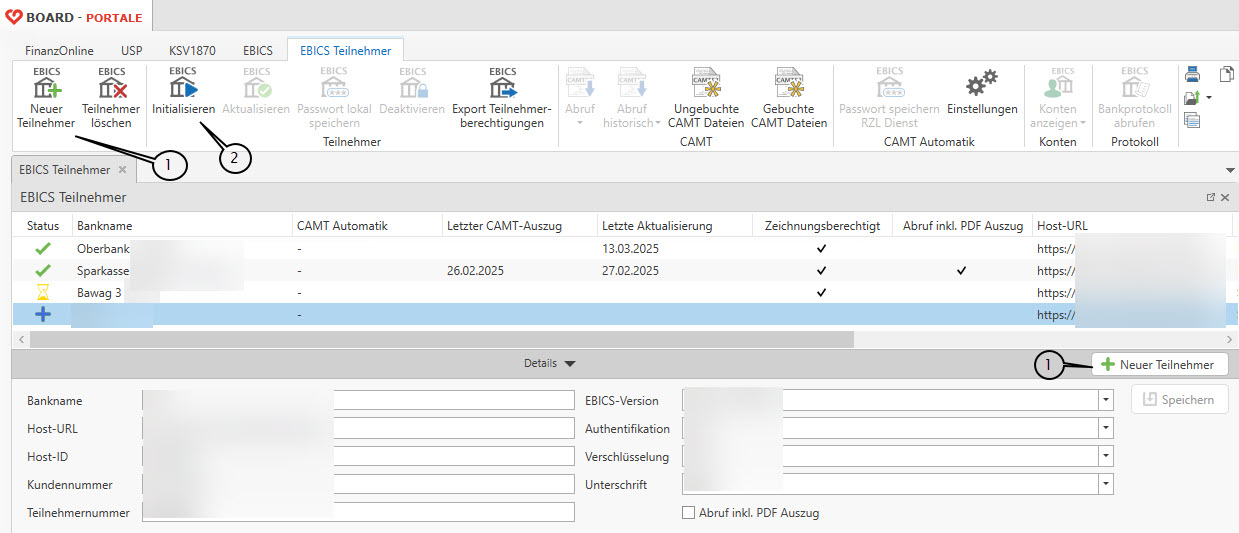
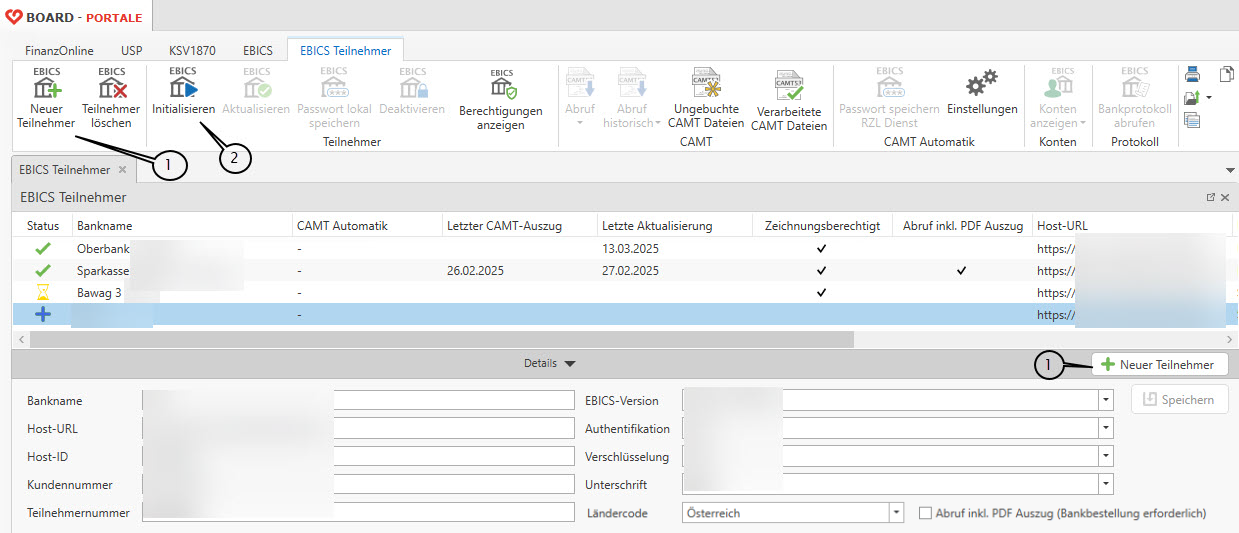
Neuerungen + FIBU integriert

diff --git a/docs/Board/Kurzanleitungen/EBICS Schnittstelle.md b/docs/Board/Kurzanleitungen/EBICS Schnittstelle.md
@@ -45,10 +45,9 @@ Wurde der EBICS Teilnehmer seitens der Bank bestätigt, wird dieser mithilfe von
 
 ![Warndreieck](<img/Bild38.png>)        Teilnehmer wurde deaktiviert
 
+Das *Deaktivieren* von EBICS Teilnehmern führt zu einer sofortigen Sperre bei der Bank. Der Teilnehmer kann also **nicht** mehr verwendet werden. Wird der Teilnehmer deaktiviert, ist die betroffene Bank zu kontaktieren.
 
-Das Deaktivieren (4) von EBICS Teilnehmern führt zu einer sofortigen Sperre bei der Bank. Der Teilnehmer kann also **nicht** mehr verwendet werden. Wird der Teilnehmer deaktiviert, ist die betroffene Bank zu kontaktieren.
-
-![Teilnehmer deaktivieren](<img/Bild17.png>)
+![Teilnehmer deaktivieren](<img/Teilnehmer deaktivieren.png>)
 
 **EBICS-Teilnehmer deaktivieren vs. löschen**
 
@@ -64,17 +63,17 @@ Mit dieser Berechtigung können CAMT-Auszüge über die EBICS Schnittstelle abge
 
 **Zeichnungsberechtigung**
 
-Mit dieser Berechtigung kann zusätzlich über die EBICS Schnittstelle die Freigabe der in der Zah-lungsverkehrsdatei enthaltenen Überweisungen vorgenommen werden. Dafür ist grundsätzlich aus Sicherheitsgründen die Eingabe des Passwortes für den jeweiligen Teilnehmer erforderlich. In der EBICS Schnittstelle besteht die Möglichkeit dieses Passwort lokal zu speichern, was aber aus den oben genannten Sicherheitsgründen nicht empfohlen wird.
+Mit dieser Berechtigung kann zusätzlich über die EBICS Schnittstelle die Freigabe der in der Zah-lungsverkehrsdatei enthaltenen Überweisungen vorgenommen werden. Dafür ist grundsätzlich aus Sicherheitsgründen die Eingabe des Passwortes für den jeweiligen Teilnehmer erforderlich. In der EBICS Schnittstelle besteht die Möglichkeit dieses Passwort lokal zu speichern, was aber aus den oben genannten Sicherheitsgründen nicht empfohlen wird.<>
 
 !!! info "Tipp"
-    Mithilfe Export Teilnehmerberechtigungen können Sie sich ein TXT File exportieren, welches Informationen über Berechtigungen je ausgewähltem EBICS Teilnehmer beinhaltet.
-    ![Export Teilnehmerberechtigungen](<img/Export Teilnehmerberechtigungen.png>)
+    Über *Berechtigungen anzeigen* erhalten Sie eine Liste, die die Berechtigungen je Bankverbindung des ausgewählten EBICS Teilnehmer anzeigt. Mithilfe von vordefinierten Filtern können Sie nach konkreten Berechtigungen suchen.
+    ![Export Teilnehmerberechtigungen](<img/Berechtigungen anzeigen.png>)
 
 ## Passwort Speicherung
 
-Für den *automatischen* CAMT Abruf kann das Passwort über den RZL Dienst gespeichert werden (5). Dies ist jedoch nur bei Teilnehmern möglich, welche eine Transport- oder Leseberechtigung haben und somit keine Zeichnungsberechtigung.
+Für den *automatischen* CAMT Abruf kann das Passwort über den RZL Dienst gespeichert werden. Dies ist jedoch nur bei Teilnehmern möglich, welche eine Transport- oder Leseberechtigung haben und somit keine Zeichnungsberechtigung.
 
-![PW speichern RZL Dienst](<img/Bild18.png>)
+![PW speichern RZL Dienst](<img/Passwort speichern Dienst.png>)
 
 ![Hinweis Speicherung](<img/Bild19.png>)
 
@@ -86,7 +85,6 @@ Zusätzlich zum Speichern des Passwortes für den automatischen CAMT Abruf, kön
 
 !!! warning "Hinweis"
     Wird das Passwort lokal gespeichert und liegt für den Teilnehmer eine *Zeichnungsberechtigung* vor, werden *Zahlungen in der Zahlungsverkehrsdatei automatisch elektronisch unterschrieben* und durchgeführt! Ob eine Zeichnungsberechtigung vorliegt sehen Sie in der Teilnehmerverwaltung in der Spalte *Zeichnungsberechtigt*.
-
 
 ## CAMT-Abruf
 
@@ -100,19 +98,19 @@ Wurde die Bankverbindung in den Stammdaten (Personen- oder Firmendaten) eingetra
 
 Den automatische CAMT Abruf können Sie aktivieren bzw. falls dieser nicht erwünscht ist deaktivieren. Außerdem sehen Sie hier, für wie viele Teilnehmer der automatische Abruf aktiviert wurde, für wie viele die Aktivierung möglich wäre und für wie viele die Aktivierung nicht möglich ist.
 
-![EBICS Einstellungen](<img/Bild21.png>)
+![EBICS Einstellungen](<img/Einstellungen autom camt.png>)
 
 Sie können den Abruf für alle freigeschaltenen Teilnehmer oder nur für einen (dieser muss markiert werden) durchführen. 
 
 Als freigeschaltete Teilnehmer gelten jene mit dem Status ![Hakerl](<img/Bild13.png>)
 
-![Abschnitt CAMT](<img/CAMT Buttons.png>)
+![Abschnitt CAMT](<img/Bereich CAMT.png>)
 
 Bei einem erfolgreichen Abruf erscheint folgendes Fenster zum Bestätigen:
 
 ![CAMT Abruf Status](<img/Bild23.png>)
 
-Beim CAMT Abruf (1) werden immer die aktuellsten bzw. die noch nicht abgerufenen CAMT abgerufen. Damit dies funktioniert, wird ein Flag gesetzt, welcher definiert, welche CAMT noch nicht abgerufen wurden.
+Beim CAMT **Abruf** (1) werden immer die aktuellsten bzw. die noch nicht abgerufenen CAMT abgerufen. Damit dies funktioniert, wird ein Flag gesetzt, welcher definiert, welche CAMT noch nicht abgerufen wurden.
 
 Treten Fehler beim manuellen Abruf auf, können Sie im Protokoll Kommunikation die Details zum fehlerhaften Abruf einsehen.
 
@@ -120,23 +118,24 @@ Bei einem fehlerhaften automatischen Abruf können Sie dies über das Benachrich
 
 ![Kommunikationsprotokoll](<img/Bild25.png>)
 
-Beim CAMT Abruf historisch (2) können Sie ein Von – Bis Datum eintragen und jene CAMT zwischen diesem Zeitraum abrufen. Grundsätzlich benötigen Sie den historischen Abruf nicht, da wie erwähnt ein Flag gesetzt wird und die benötigten CAMT Dateien nach Reihenfolge abgerufen werden.
+Beim CAMT **Abruf historisch** (2) können Sie ein Von – Bis Datum eintragen und jene CAMT zwischen diesem Zeitraum abrufen. Grundsätzlich benötigen Sie den historischen Abruf nicht, da wie erwähnt ein Flag gesetzt wird und die benötigten CAMT Dateien nach Reihenfolge abgerufen werden.
 
 !!! info "Hinweis"
     Bei einem historischen Abruf wird außerdem ein Abgleich von bereits gebuchten und ungebuchten CAMT-Dateien durchgeführt. Wenn mit einem historischen Abruf bereits gebuchte CAMT Dateien abgerufen werden, werden diese nicht wieder als ungebuchte CAMT eingespielt. Es kann somit also nicht zu einer doppelten Verbuchung kommen.
 
 ![CAMT Abruf historisch](<img/Bild26.png>)
 
-Unter Ungebuchte CAMT Dateien (3) finden Sie eine Übersicht, welche CAMT Dateien je Bankverbindung und zugeordneten Klienten *noch nicht* gebucht wurden.
+Unter **Ungebuchte CAMT Dateien** (3) finden Sie eine Übersicht, welche CAMT Dateien je Bankverbindung und zugeordneten Klienten *noch nicht* gebucht wurden.
 
 ![Ungebuchte CAMT Dateien](<img/ungebuchte CAMT.png>)
 
-Unter Gebuchte CAMT Dateien (4) finden Sie eine Übersicht, welche CAMT Dateien je Bankverbindung und zugeordneten Klienten bereits gebucht wurden. 
+Unter **Verarbeitete CAMT Dateien** (4) finden Sie eine Übersicht, welche CAMT Dateien je Bankverbindung und zugeordneten Klienten bereits gebucht wurden. 
 
-!!! info "Hinweis"
-    Der Aufbau der Ansichten **ungebuchte CAMT Dateien** und **gebuchte CAMT Dateien** ist ident. In beiden Listen finden Sie dieselben Informationen.
+!!! warning "Hinweis"
+    Die unter *verarbeitete CAMT Dateien* befindlichen CAMT Dateien sind jene, welche bereits in die FIBU/FIBU Next hereingespielt wurden. Ob diese tatsächlich gebucht wurden, kann nicht geprüft werden.
+    Falls sich CAMT Daten in den verarbeiteten CAMT Dateien befinden, diese allerdings noch nicht gebucht wurden, können Sie diese aus dieser Ansicht löschen und einen CAMT Abruf (historisch) durchführen. Die abgerufenen CAMT landen somit in die ungebuchten CAMT Dateien und können in die FIBU/FIBU Next hereingespielt werden.
 
-In diesen beiden Listen können Sie außerdem die CAMT Dateien exportieren oder löschen.
+In diesen beiden Listen können Sie außerdem die CAMT Dateien exportieren oder löschen, sowie die PDF-Auszüge einzeln oder gesammelt exportieren.
 
 ### PDF-Auszug
 Wurde bei der Bank die Zustellung von PDF-Auszügen bestellt und auch im EBICS Teilnehmer die Option *Abruf inkl. PDF-Auszug* aktiviert, sind in beiden Listen ebenso die PDF Auszüge abrufbar. Sie haben im RZL die Möglichkeit diese zu exportieren, um diese ggf. in die Belegverarbeitung zu importieren.
@@ -150,7 +149,6 @@ Außerdem gibt es auch hier wieder die Möglichkeit die PDF und CAMT Dateien zu 
 !!! warning "Hinweis"
     Die Verarbeitung von CAMT-Retourdaten in der RZL FIBU/EA Klassik bzw. der RZL FIBU Next bleibt mit Einführung der EBICS Schnittstelle ident. Die Schnittstelle dient lediglich zum Abruf bzw. zum Transport von Bankdaten.
     Die bisherige Kommunikation über Online-Services der Bank (manueller Abruf CAMT53 oder .csv-Dateien ohne bisherige MBS-Software) ist weiterhin möglich. Detailinformationen erhalten Sie bei den jeweiligen Bankinstituten.
-
 
 ## Zahlungsverkehr
 
@@ -214,11 +212,90 @@ Am *Status* können Sie erkennen, ob die Zahlungsdatei übermittelt wurde. Am **
 !!! info "Hinweis"
     Wenn Sie den Mauszeiger auf das jeweilige Icon positionieren, wird ein Tooltip angezeigt, welche die Informationen laut obiger Tabelle anführen.
 
-## EBICS in der RZL FIBU/FIBU Next/EA und im RZL Lohn
+## EBICS in der RZL FIBU/EA und FIBU Next
 
-Die nötigen Einstellungen und die Bedienung von CAMT Retourdaten und des Zahlungsverkehrs mit EBICS in der RZL FIBU/FIBU Next/EA entnehmen Sie bitte der Kurzanleitung [*EBICS Schnittstelle RZL Finanzbuchhaltung*](https://rzlsoftware.at/fileadmin/user_upload/PDF_Kurzanleitungen/BOARD/BOARD_EBICS_Schnittstelle.pdf).
+Die abgerufenen CAMT53-Dateien werden durch den Abruf in der RZL Datenbank gespeichert und können automatisch in der RZL FIBU bzw. der RZL FIBU Next eingespielt werden. Somit fällt der manuelle Abruf, die Speicherung der Dateien bzw. das händische Einspielen der Retourdaten weg.
 
-Die nötigen Einstellungen und die Bedienung des Zahlungsverkehres mit EBICS im RZL Lohn entnehmen Sie bitte der Kurzanleitung *EBICS Schnittstelle im RZL Lohnverrechnungsprogramm*.
+### Verarbeitung CAMT FIBU/EA Klassik
+Bei den jeweiligen Klienten wird die Schnittstelle aktiviert. Unter *Stamm → Weitere Stammdaten → Bankkonten* ist in den Stammdaten des jeweiligen Bankkontos die Option **EBICS-Portal für CAMT** zu setzen.
+
+!!! info "Hinweis"
+    Die Verarbeitung von CAMT-Retourdaten in der RZL FIBU/EA Klassik bzw. der RZL FIBU Next bleibt mit Einführung der EBICS Schnittstelle ident. Die Schnittstelle dient lediglich zum Abruf bzw. zum Transport von Bankdaten.
+    Die bisherige Kommunikation über Online-Services der Bank (manueller Abruf CAMT53 oder .csv-Dateien ohne bisherige MBS-Software) ist weiterhin möglich. Detailinformationen erhalten Sie bei den jeweiligen Bankinstituten.
+
+![Bankverbindung FIBU/EA](<img/Bankverbindung FIBU.png>)
+
+Die weiteren Schritte sind ident mit der bisherigen Vorgangsweise bei der Verarbeitung von Retourdaten. Über *Bearbeiten → Zahlungsverkehr SEPA bzw. EBICS → Verarbeitung CAMT Retourdaten* werden die CAMT-Daten abgeholt und in einen Zwischenordner (bisher bereits hinterlegter Datenordner) zwischengesichert.
+
+![Import Ordner festlegen](<img/Ordner Import CAMT.png>)
+
+### Verarbeitung CAMT FIBU Next
+
+Unter *Stammdaten → Zahlungsverkehr → FIBU Bankverbindungen* ist in den Stammdaten des jeweiligen Bankkontos beim Klienten die Quelle EBICS zu setzen.
+
+![FIBU Next Bankverbindung Quelle](<img/Next Bankverbindung.png>)
+
+Die weiteren Schritte in der FIBU Next sind ident mit der bisherigen Vorgangsweise bei der Verarbeitung von Retourdaten.
+
+![Kontoauszüge hereinspielen Next](<img/Next EBICS Camt einspielen.png>)
+
+Sobald ein Stapel im FIBU Next geöffnet wird, werden die Auszüge in den ungebuchten CAMT Dateien ausgeblendet (noch nicht gelöscht). Beim Verwerfen oder Löschen eines Stapels werden die Auszüge wieder zurück in die ungebuchten CAMT Dateien gestellt. Erst wenn der Stapel finalisiert wird, werden die Daten aus den ungebuchten CAMT Dateien gelöscht.
+
+### Überweisungen und Bankeinzüge mit EBICS
+
+Verwenden Sie das EBICS Modul und hat Ihr Kunde ein EBICS fähiges Kundenportal, können Sie direkt aus der FIBU/EA Rechnung Klassik die Überweisungs- und Bankeinzugsdateien erstellen und aus dem EBICS Modul im RZL Board überweisen bzw. die Überweisung Ihrem Kunden zum Freigeben in sein Bankprogramm stellen.
+
+!!! warning "Hinweis"
+    Bevor Sie innerhalb unseres EBICS Moduls mit der Verwendung des Zahlungsverkehrs beginnen, stellen Sie bitte sicher, dass die Klienten – für welche Sie eine Zahlungsdatei erzeugen und versenden – über ein **EBICS-fähiges Kundenportal** verfügen. Sollte dies nicht vorhanden sein, können Zahlungsdateien, welche mit einem transportberechtigten Teilnehmer versendet werden, **nicht** von Ihrem Klienten freigegeben werden.
+
+!!! info "Hinweis"
+    Die Erstellung der Überweisungen/Bankeinzüge in RZL FIBU/EA Klassik bleibt mit Einführung der EBICS Schnittstelle ident. Die Schnittstelle dient lediglich zum Transport von Bankdaten.
+
+Zuerst müssen Sie über *Stamm → Weitere Stammdaten → Bankkonten* bei dem jeweiligen Bankkonto definieren, dass die Überweisungen/Bankeinzüge über das EBICS-Portal durchgeführt werden können.
+
+![Bankverbindung FIBU Klassik](<img/Bankverbindung ÜW Klassik.png>)
+
+#### Überweisungen
+
+Steigen Sie über *Bearbeiten → Zahlungsverkehr EBICS → Überweisungen → SEPA Raum* ein.
+Im Reiter Grundeinstellungen können Sie definieren, ob das Protokoll sofort nach der Erstellung gedruckt wird.
+
+![Protokoll drucken ÜW](<img/Protokoll ÜW.png>)
+
+Im Reiter **Daten erstellen** definieren Sie die Einstellungen für die Überweisungen.
+
+![Daten übergeben](<img/Daten übergeben EBICS.png>)
+
+Mit Klick auf die Schaltfläche Daten Übergeben öffnen sich nach der Reihe die Kreditoren, wo offene Posten vorhanden sind.
+
+![OP Fenster nach Übergeben](<img/OP nach ÜW.png>)
+
+Nachdem alle Kreditoren zum Überweisen gewählt wurden, erhalten Sie folgende Meldung:
+
+![erfolgreich Meldung](<img/ÜW erfolgreich übergeben.png>)
+
+#### Bankeinzüge
+
+Steigen Sie über *Bearbeiten → Zahlungsverkehr EBICS → Bankeinzüge → SEPA Raum* ein.
+Im Reiter Grundeinstellungen können Sie definieren, ob das Protokoll sofort nach der Erstellung gedruckt wird.
+
+![Protokoll Bankeinzüge](<img/Protokoll Bankeinz.png>)
+
+Im Reiter **Daten erstellen** definieren Sie die Einstellungen für die Bankeinzüge.
+
+![Daten erstellen Bankeinz](<img/Daten erstellen Bankeinz.png>)
+
+Mit Klick auf die Schaltfläche *Daten übergeben* öffnen sich nach der Reihe die Debitoren, wo offene Posten vorhanden sind.
+
+![Bankeinzug OP Fenster](<img/Bankeinzug OP wählen.png>)
+
+Nachdem alle Debitoren zum Einziehen gewählt wurden, erhalten Sie folgende Meldung:
+
+![Daten erfolgreich übergeben](<img/erfolgreich übergeben.png>)
+
+Die nächsten Handlungsschritte sind im Kapitel Zahlungsverkehr beschrieben.
+
+## EBICS im RZL Lohn
 
 
 ## Protokolle
@@ -238,3 +315,4 @@ Die EBICS-Schnittstelle ist an das RZL BOARD geknüpft. Um die Verwaltungs- bzw.
 ![EBICS Rollen](<img/EBICS Rollen.png>)
 
 Zudem befinden sich üblicherweise alle Berechtigungen betreffend EBICS in der Rolle *Alle Berechtigungen*. Die Rolle *RZL-Administrator* verfügt allerdings nur über bestimmte ausgewählte Berechtigungen betreffend EBICS.
+
